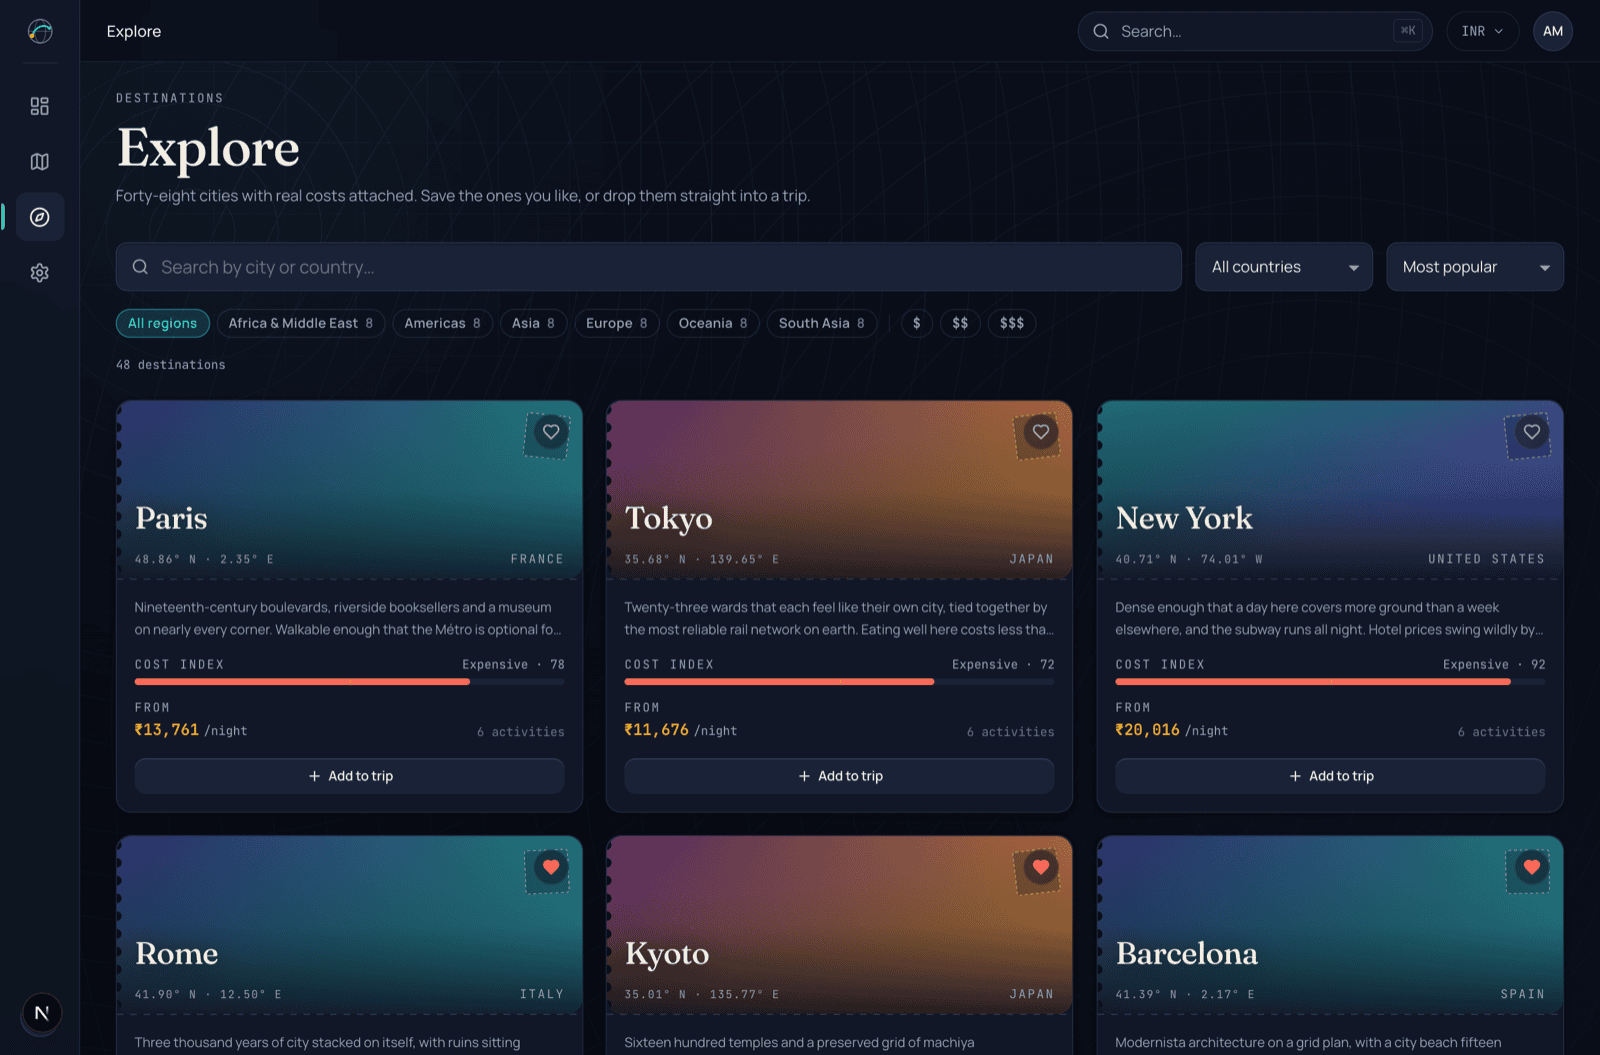
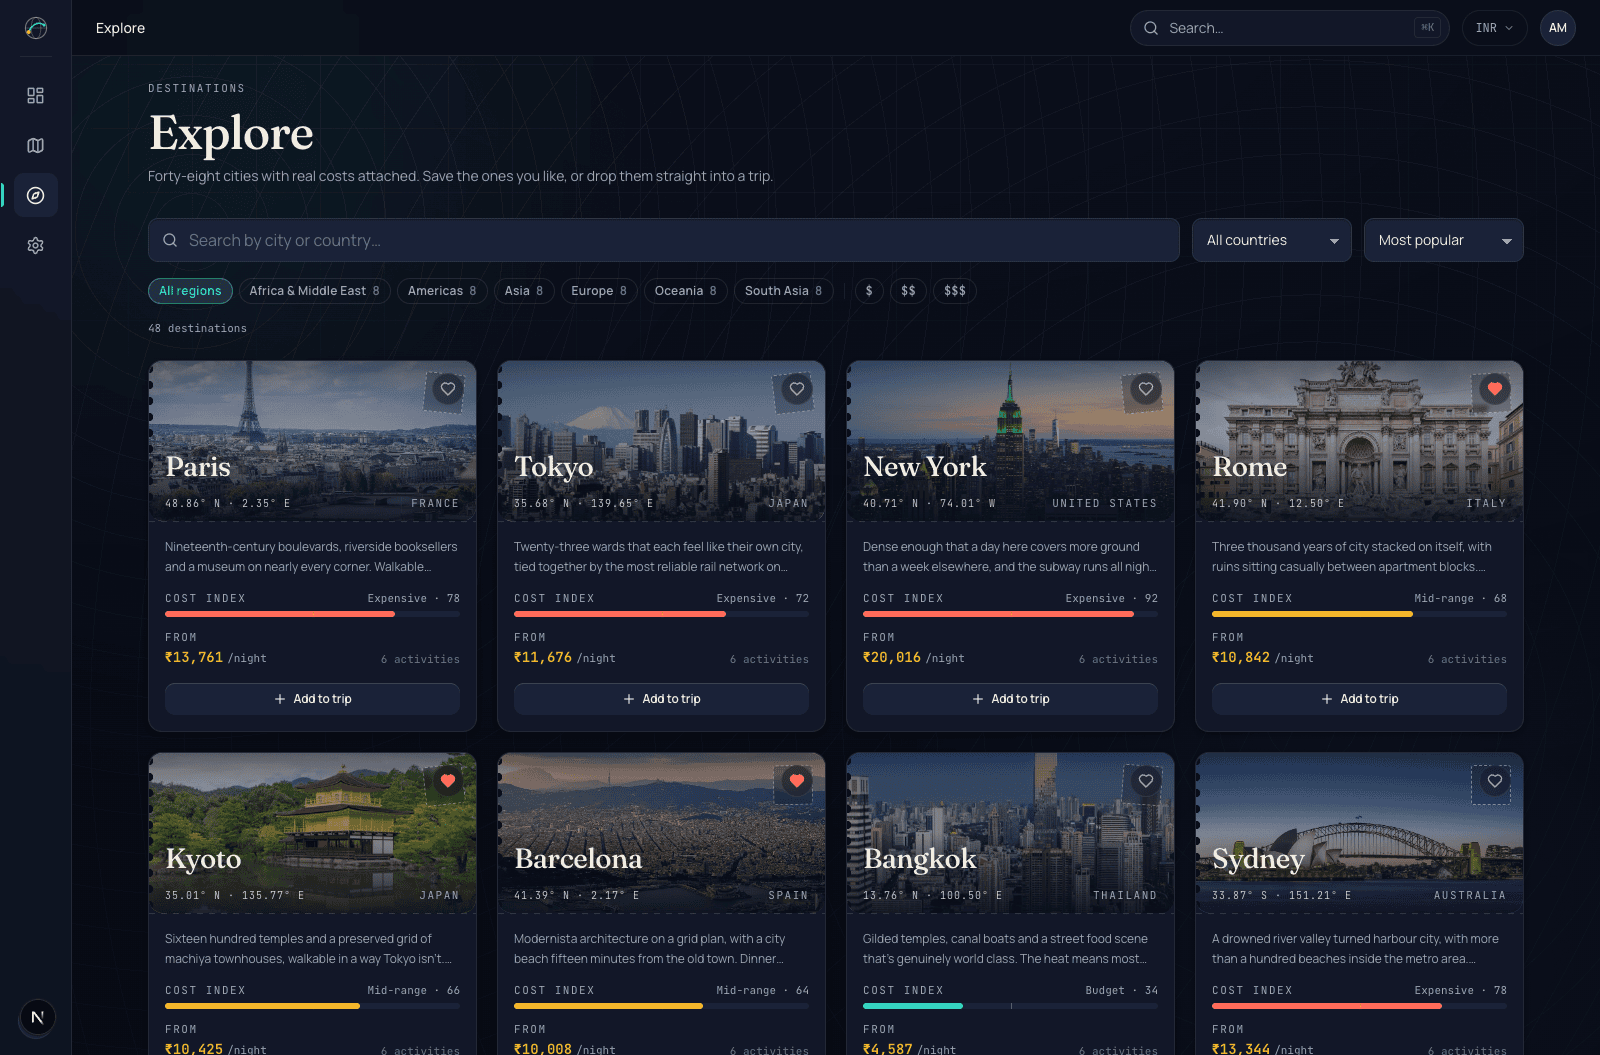
feat(cities): give all 48 cities a real photograph
The Postcard component has always rendered a photo when a city had one — no
city ever did, so every card fell back to its region gradient. All 48 now ship
a photograph of themselves.

scripts/build-city-images.mjs builds them from Wikimedia Commons: the article's
lead image, resized onto a 1000x563 frame and encoded as WebP (~86 KB each,
4 MB for the set). Files live in public/ rather than being hot-linked, for the
same reason as the fonts and globe textures — and because 48 cards going blank
on conference wifi is not a risk worth carrying into a demo. Author and licence
for every one is in docs/IMAGE-CREDITS.md, generated by the same script, since
CC BY and CC BY-SA oblige us to keep it.

A lead image is usually the right photo and sometimes badly wrong, so nine are
pinned by hand. Varanasi's was an active open-air cremation ground, which is
not what belongs on a card inviting someone to go there; it is now boats on the
Ganges at sunrise. Dubai's was not on Commons and Singapore's was a map. The
rest were a traffic jam (Ubud), an aerial of a former prison (San Francisco),
or too small to use.

Two things the photos broke, both fixed here:

- Contrast. The postcard's ink wash only guards the bottom edge, which was
  enough for gradients chosen to sit under white type and not for a photograph
  of a city at midday. Adds a top-down scrim so the stamp and any status chip
  in the top corners stay readable, deepens the bottom wash, and lifts the
[…]

diff --git a/src/components/ui/postcard.tsx b/src/components/ui/postcard.tsx
@@ -149,11 +149,29 @@ export function Postcard({
           }}
         />
 
-        {/* Ink wash so type stays readable over any gradient or photo. */}
+        {/* Ink wash so type stays readable over any gradient or photo. A photo
+            needs more of it than a region gradient: the gradients were picked
+            to stay legible under white type, a photograph of a city at midday
+            was not. */}
         <div
           aria-hidden
-          className="absolute inset-0 bg-gradient-to-t from-ink/85 via-ink/25 to-transparent"
+          className={cn(
+            "absolute inset-0 bg-gradient-to-t to-transparent",
+            city.imageUrl ? "from-ink/92 via-ink/40" : "from-ink/85 via-ink/25",
+          )}
         />
+
+        {/* Second scrim, top-down. The wash above only protects the bottom, but
+            the stamp lives top-right and callers drop status chips top-left —
+            and skies are the brightest part of most of these photographs.
+            Skipped for the gradients, which are dark up there already. */}
+        {city.imageUrl && (
+          <div
+            aria-hidden
+            className="absolute inset-x-0 top-0 h-1/2 bg-gradient-to-b from-ink/65 to-transparent"
+          />
+        )}
+
         <div aria-hidden className="grain" />
 
         {!minimal && (
@@ -174,6 +192,8 @@ export function Postcard({
             <div
               className={cn(
                 "absolute bottom-2.5 left-4 font-mono tabular-nums tracking-[0.1em] text-cloud/60",
+                // Small mono type is the first thing a busy photograph eats.
+                city.imageUrl && "text-cloud/80 drop-shadow-[0_1px_5px_rgba(0,0,0,0.95)]",
                 s.meta,
               )}
               aria-hidden
@@ -195,7 +215,14 @@ export function Postcard({
             {city.name}
           </NameTag>
           {!minimal && (
-            <p className="placard absolute bottom-2.5 right-4 text-cloud/55">{city.country}</p>
+            <p
+              className={cn(
+                "placard absolute bottom-2.5 right-4 text-cloud/55",
+                city.imageUrl && "text-cloud/80 drop-shadow-[0_1px_5px_rgba(0,0,0,0.95)]",
+              )}
+            >
+              {city.country}
+            </p>
           )}
         </div>
 

diff --git a/prisma/seed.ts b/prisma/seed.ts
@@ -4,6 +4,8 @@
  * Everything the app shows comes from here — there is no static JSON data
  * source anywhere in the running application.
  */
+import { existsSync } from "node:fs";
+import { join } from "node:path";
 import { PrismaClient, type Prisma } from "@prisma/client";
 import bcrypt from "bcryptjs";
 import { cities } from "./seed-data/cities";
@@ -29,6 +31,19 @@ function addDays(iso: string, n: number): string {
   return new Date(utcDate(iso).getTime() + n * MS_PER_DAY).toISOString().slice(0, 10);
 }
 
+/**
+ * The photo for a city, or null when we don't ship one — in which case the
+ * Postcard component draws its region gradient instead.
+ *
+ * The path is derived from the slug rather than stored per city, but it is
+ * *checked* rather than assumed: adding a 49th city without adding its photo
+ * should fall back to the postcard, not point at a 404.
+ */
+function cityImage(slug: string): string | null {
+  const path = `/cities/${slug}.webp`;
+  return existsSync(join(process.cwd(), "public", path)) ? path : null;
+}
+
 async function main() {
   console.log("→ seeding GlobeTrotter");
 
@@ -36,7 +51,10 @@ async function main() {
   for (const city of cities) {
     await db.city.upsert({
       where: { slug: city.slug },
-      update: {},
+      // Photos are the one field a re-seed backfills. Everything else is left
+      // alone so a re-run can't overwrite a database someone has been using,
+      // but a city that gained a picture since the last seed should get it.
+      update: { imageUrl: cityImage(city.slug) },
       create: {
         slug: city.slug,
         name: city.name,
@@ -50,12 +68,14 @@ async function main() {
         currency: city.currency,
         timezone: city.timezone,
         description: city.description,
+        imageUrl: cityImage(city.slug),
         avgStayCost: city.avgStayCost,
         avgMealCost: city.avgMealCost,
       },
     });
   }
-  console.log(`  cities      ${cities.length}`);
+  const withPhoto = cities.filter((c) => cityImage(c.slug)).length;
+  console.log(`  cities      ${cities.length} (${withPhoto} with photos)`);
 
   const cityBySlug = new Map(
     (await db.city.findMany()).map((c) => [c.slug, c] as const),

diff --git a/next.config.ts b/next.config.ts
@@ -18,6 +18,28 @@ import { PHASE_DEVELOPMENT_SERVER } from "next/constants";
 const config = (phase: string): NextConfig => ({
   distDir: phase === PHASE_DEVELOPMENT_SERVER ? ".next-dev" : ".next",
   allowedDevOrigins: ["192.168.137.1", "127.0.0.1", "localhost"],
+
+  images: {
+    /**
+     * The optimiser is off, and the city photos are pre-sized instead
+     * (1000x563 WebP, ~86 KB each, built by scripts/build-city-images).
+     *
+     * Not a preference — the optimiser is not safe on this exFAT volume. It
+     * caches derivatives under `<distDir>/dev/cache/images/<hash>/`, macOS
+     * drops an AppleDouble `._<name>` sidecar beside each one, and Next reads
+     * the directory and picks the sidecar: every city image then returns
+     * HTTP 200 with 4096 bytes of AppleDouble and `application/octet-stream`,
+     * which no browser will decode. Same root cause as the Turbopack cache
+     * problem in scripts/clean-appledouble.mjs, but this one recurs *during* a
+     * session, so cleaning before the run doesn't help.
+     *
+     * The failure is silent and total — all 48 cards break at once — so it is
+     * not something to leave armed during a demo. Serving the files straight
+     * from public/ costs the difference between an 86 KB source and a ~30 KB
+     * derivative, on images that lazy-load anyway.
+     */
+    unoptimized: true,
+  },
 });
 
 export default config;

diff --git a/scripts/check-images.ts b/scripts/check-images.ts
@@ -4,9 +4,13 @@
  *
  *   pnpm check:images
  *
- * Cities and activities default to `imageUrl: null` — the Postcard component
- * renders instead — so a clean run on seed data reports "nothing to check",
- * which is the correct answer rather than a failure.
+ * All 48 cities ship a photo under `public/cities/`, so this checks those are
+ * actually being served. Activities still default to `imageUrl: null` and fall
+ * back to the Postcard component, so they contribute nothing to check.
+ *
+ * The paths are app-relative, which means the dev or production server has to
+ * be up for this to mean anything — it resolves them against
+ * NEXT_PUBLIC_APP_URL.
  */
 import { PrismaClient } from "@prisma/client";
 

diff --git a/docs/IMAGE-CREDITS.md b/docs/IMAGE-CREDITS.md
@@ -1,0 +1,68 @@
+# City photo credits
+
+Every city photo in `public/cities/` comes from **Wikimedia Commons** under a
+free licence. They are stored in the repository rather than hot-linked, so the
+app keeps working with no network — and so a flaky connection can't blank 48
+cards mid-demo.
+
+Each file was fetched at 1600px, covered onto a 1000×563 frame and encoded as
+WebP at quality 78. The originals are unmodified other than that resize
+and centre-crop.
+
+Regenerate with `node scripts/build-city-images.mjs --force`.
+
+**Licences in use:** 12 × CC BY-SA 4.0 · 12 × CC BY 2.0 · 8 × CC BY-SA 3.0 · 5 × CC BY-SA 2.0 · 4 × CC0 · 3 × CC BY 4.0 · 2 × CC BY 2.5 · 2 × CC BY 3.0.
+
+Attribution is required by CC BY and CC BY-SA. If you add a city, add its photo
+and its row here.
+
+| City | Source file | Author | Licence |
+|---|---|---|---|
+| Amsterdam | [Imagen_de_los_canales_concéntricos_en_Ámsterdam.png](https://commons.wikimedia.org/wiki/File:Imagen_de_los_canales_conc%C3%A9ntricos_en_%C3%81msterdam.png) | Andrés Barrios | [CC BY-SA 4.0](https://creativecommons.org/licenses/by-sa/4.0) |
+| Auckland | [Auckland_skyline_-_May_2024_(2).jpg](https://commons.wikimedia.org/wiki/File:Auckland_skyline_-_May_2024_(2).jpg) | elpinto007 | [CC BY-SA 2.0](https://creativecommons.org/licenses/by-sa/2.0) |
+| Bangkok | [4Y1A1159_Bangkok_(33536795515).jpg](https://commons.wikimedia.org/wiki/File:4Y1A1159_Bangkok_(33536795515).jpg) | Ninara from Helsinki, Finland | [CC BY 2.0](https://creativecommons.org/licenses/by/2.0) |
+| Barcelona | [Evening_light_over_Barcelona.jpg](https://commons.wikimedia.org/wiki/File:Evening_light_over_Barcelona.jpg) | M McBey | [CC BY 2.0](https://creativecommons.org/licenses/by/2.0) |
+| Buenos Aires | [Puerto_Madero,_Buenos_Aires_(40689219792)_(cropped).jpg](https://commons.wikimedia.org/wiki/File:Puerto_Madero,_Buenos_Aires_(40689219792)_(cropped).jpg) | Deensel | [CC BY 2.0](https://creativecommons.org/licenses/by/2.0) |
+| Cairo | [Cairo_Opera_House,_Al_Hurriyah_Park_and_the_Nile_river_(14797782354).jpg](https://commons.wikimedia.org/wiki/File:Cairo_Opera_House,_Al_Hurriyah_Park_and_the_Nile_river_(14797782354).jpg) | Jorge Láscar from Melbourne, Australia | [CC BY 2.0](https://creativecommons.org/licenses/by/2.0) |
+| Cancún | [Cancun_Strand_Luftbild_(22143397586).jpg](https://commons.wikimedia.org/wiki/File:Cancun_Strand_Luftbild_(22143397586).jpg) | dronepicr | [CC BY 2.0](https://creativecommons.org/licenses/by/2.0) |
+| Cape Town | [Camps_bay_(53460319478)_(cropped).jpg](https://commons.wikimedia.org/wiki/File:Camps_bay_(53460319478)_(cropped).jpg) | Der Berzerker from Washington, DC, USA | [CC BY-SA 2.0](https://creativecommons.org/licenses/by-sa/2.0) |
+| Cusco | [Vista_Calle_Suecia.jpg](https://commons.wikimedia.org/wiki/File:Vista_Calle_Suecia.jpg) | tomscoffin | [CC BY 2.0](https://creativecommons.org/licenses/by/2.0) |
+| Doha | [The_Pearl_Marina_in_Nov_2013.jpg](https://commons.wikimedia.org/wiki/File:The_Pearl_Marina_in_Nov_2013.jpg) | Alex Sergeev (www.asergeev.com) | [CC BY-SA 3.0](http://creativecommons.org/licenses/by-sa/3.0/) |
+| Dubai | [Dubai Marina (12627723853).jpg](https://commons.wikimedia.org/wiki/File:Dubai_Marina_(12627723853).jpg) | Francisco Anzola | [CC BY 2.0](https://creativecommons.org/licenses/by/2.0) |
+| Goa | [BeachFun.jpg](https://commons.wikimedia.org/wiki/File:BeachFun.jpg) | Sam 8393 | [CC BY-SA 4.0](https://creativecommons.org/licenses/by-sa/4.0) |
+| Gold Coast | [Gold_Coast_skyline_(Unsplash).jpg](https://commons.wikimedia.org/wiki/File:Gold_Coast_skyline_(Unsplash).jpg) | Jordan Gellie jordan_gellie | [CC0](http://creativecommons.org/publicdomain/zero/1.0/deed.en) |
+| Hobart | [Franklin_Wharf_2015_b_(cropped).jpg](https://commons.wikimedia.org/wiki/File:Franklin_Wharf_2015_b_(cropped).jpg) | File:Franklin Wharf 2015.jpg: Michael fromholtz derivative work: Georgfotoart | [CC BY-SA 4.0](https://creativecommons.org/licenses/by-sa/4.0) |
+| Istanbul | [Historical_peninsula_and_modern_skyline_of_Istanbul.jpg](https://commons.wikimedia.org/wiki/File:Historical_peninsula_and_modern_skyline_of_Istanbul.jpg) | Hunanuk | [CC0](http://creativecommons.org/publicdomain/zero/1.0/deed.en) |
+| Jaipur | [East_facade_Hawa_Mahal_Jaipur_from_ground_level_(July_2022)_-_img_01.jpg](https://commons.wikimedia.org/wiki/File:East_facade_Hawa_Mahal_Jaipur_from_ground_level_(July_2022)_-_img_01.jpg) | Chainwit. | [CC BY-SA 4.0](https://creativecommons.org/licenses/by-sa/4.0) |
+| Kochi | [Kochi_Skyline.jpg](https://commons.wikimedia.org/wiki/File:Kochi_Skyline.jpg) | Fsquares (The Ibrahims) | [CC BY-SA 4.0](https://creativecommons.org/licenses/by-sa/4.0) |
+| Kyoto | [Kyoto,_Japan_(49667780482).jpg](https://commons.wikimedia.org/wiki/File:Kyoto,_Japan_(49667780482).jpg) | Nina R from Africa | [CC BY 2.0](https://creativecommons.org/licenses/by/2.0) |
+| Leh | [Leh_City_seen_from_Shanti_Stupa.JPG](https://commons.wikimedia.org/wiki/File:Leh_City_seen_from_Shanti_Stupa.JPG) | Anirvan Shukla | [CC BY-SA 3.0](https://creativecommons.org/licenses/by-sa/3.0) |
+| Lisbon | [Lisboa_-_Portugal_(52597836992).jpg](https://commons.wikimedia.org/wiki/File:Lisboa_-_Portugal_(52597836992).jpg) | Vitor Oliveira from Torres Vedras, PORTUGAL | [CC BY-SA 2.0](https://creativecommons.org/licenses/by-sa/2.0) |
+| Marrakech | [Jemaa el-Fnaa at night.jpg](https://commons.wikimedia.org/wiki/File:Jemaa_el-Fnaa_at_night.jpg) | procsilas | [CC BY 2.0](https://creativecommons.org/licenses/by/2.0) |
+| Melbourne | [Melbourne_skyline_sor.jpg](https://commons.wikimedia.org/wiki/File:Melbourne_skyline_sor.jpg) | Melbpal | [CC BY-SA 4.0](https://creativecommons.org/licenses/by-sa/4.0) |
+| Mexico City | [Sobrevuelos_CDMX_HJ2A4913_(25514321687)_(cropped).jpg](https://commons.wikimedia.org/wiki/File:Sobrevuelos_CDMX_HJ2A4913_(25514321687)_(cropped).jpg) | Gobierno CDMX | [CC0](http://creativecommons.org/publicdomain/zero/1.0/deed.en) |
+| Mumbai | [Mumbai_Bandra-Worli_Sea_Link.jpg](https://commons.wikimedia.org/wiki/File:Mumbai_Bandra-Worli_Sea_Link.jpg) | Rutiknatekar | [CC BY-SA 4.0](https://creativecommons.org/licenses/by-sa/4.0) |
+| Muscat | [Al_Alam_Palace.jpg](https://commons.wikimedia.org/wiki/File:Al_Alam_Palace.jpg) | Tristan | [CC BY 2.0](https://creativecommons.org/licenses/by/2.0) |
+| Nadi | [Sri Siva Subramaniya Swami Temple - Nadi, Fiji 2.jpg](https://commons.wikimedia.org/wiki/File:Sri_Siva_Subramaniya_Swami_Temple_-_Nadi,_Fiji_2.jpg) | Mark Heard from Canada | [CC BY 2.0](https://creativecommons.org/licenses/by/2.0) |
+| Nairobi | [Nairobi City Skyline.jpg](https://commons.wikimedia.org/wiki/File:Nairobi_City_Skyline.jpg) | Raidarmax | [CC BY-SA 3.0](https://creativecommons.org/licenses/by-sa/3.0) |
+| New York | [View_of_Empire_State_Building_from_Rockefeller_Center_New_York_City_dllu_(cropped).jpg](https://commons.wikimedia.org/wiki/File:View_of_Empire_State_Building_from_Rockefeller_Center_New_York_City_dllu_(cropped).jpg) | Dllu | [CC BY-SA 4.0](https://creativecommons.org/licenses/by-sa/4.0) |
+| Osaka | [Osaka_Castle_03bs3200.jpg](https://commons.wikimedia.org/wiki/File:Osaka_Castle_03bs3200.jpg) | 663highland | [CC BY 2.5](https://creativecommons.org/licenses/by/2.5) |
+| Paris | [La_Tour_Eiffel_vue_de_la_Tour_Saint-Jacques,_Paris_août_2014_(2).jpg](https://commons.wikimedia.org/wiki/File:La_Tour_Eiffel_vue_de_la_Tour_Saint-Jacques,_Paris_ao%C3%BBt_2014_(2).jpg) | Yann Caradec from Paris, France | [CC BY-SA 2.0](https://creativecommons.org/licenses/by-sa/2.0) |
+| Perth | [Perth_CBD_skyline_from_State_War_Memorial_Lookout,_2023,_04_b.jpg](https://commons.wikimedia.org/wiki/File:Perth_CBD_skyline_from_State_War_Memorial_Lookout,_2023,_04_b.jpg) | File:Perth CBD skyline from State War Memorial Lookout, 2023, 04.jpg: Kgbo derivative work: Georgfotoart | [CC BY-SA 4.0](https://creativecommons.org/licenses/by-sa/4.0) |
+| Petra | [Al_Deir_Petra.JPG](https://commons.wikimedia.org/wiki/File:Al_Deir_Petra.JPG) | Azurfrog | [CC BY-SA 3.0](https://creativecommons.org/licenses/by-sa/3.0) |
+| Prague | [Prague_(6365119737).jpg](https://commons.wikimedia.org/wiki/File:Prague_(6365119737).jpg) | Moyan Brenn from Italy | [CC BY 2.0](https://creativecommons.org/licenses/by/2.0) |
+| Queenstown | [Queenstown_1_(8168013172).jpg](https://commons.wikimedia.org/wiki/File:Queenstown_1_(8168013172).jpg) | Bernard Spragg. NZ from Christchurch, New Zealand | [CC0](http://creativecommons.org/publicdomain/zero/1.0/deed.en) |
+| Rio de Janeiro | [Cidade_Maravilhosa.jpg](https://commons.wikimedia.org/wiki/File:Cidade_Maravilhosa.jpg) | Rafael Rabello de Barros | [CC BY-SA 3.0](https://creativecommons.org/licenses/by-sa/3.0) |
+| Rishikesh | [Trayambakeshwar_Temple_VK.jpg](https://commons.wikimedia.org/wiki/File:Trayambakeshwar_Temple_VK.jpg) | VK1983 | [CC BY-SA 4.0](https://creativecommons.org/licenses/by-sa/4.0) |
+| Rome | [Trevi_Fountain,_Rome,_Italy_2_-_May_2007.jpg](https://commons.wikimedia.org/wiki/File:Trevi_Fountain,_Rome,_Italy_2_-_May_2007.jpg) | Diliff | [CC BY 3.0](https://creativecommons.org/licenses/by/3.0) |
+| San Francisco | [GoldenGateBridge BakerBeach MC.jpg](https://commons.wikimedia.org/wiki/File:GoldenGateBridge_BakerBeach_MC.jpg) | Christian Mehlführer, User:Chmehl | [CC BY 3.0](https://creativecommons.org/licenses/by/3.0) |
+| Seoul | [중화전의_낮.jpg](https://commons.wikimedia.org/wiki/File:%EC%A4%91%ED%99%94%EC%A0%84%EC%9D%98_%EB%82%AE.jpg) | Eunmi Park | [CC BY-SA 4.0](https://creativecommons.org/licenses/by-sa/4.0) |
+| Singapore | [Singapore Supertree-Grove-in-The-Gardens-01.jpg](https://commons.wikimedia.org/wiki/File:Singapore_Supertree-Grove-in-The-Gardens-01.jpg) | CEphoto, Uwe Aranas | [CC BY-SA 3.0](https://creativecommons.org/licenses/by-sa/3.0) |
+| Sydney | [Sydney_Opera_House_and_Harbour_Bridge_Dusk_(2)_2019-06-21.jpg](https://commons.wikimedia.org/wiki/File:Sydney_Opera_House_and_Harbour_Bridge_Dusk_(2)_2019-06-21.jpg) | Benh LIEU SONG (Flickr) | [CC BY-SA 4.0](https://creativecommons.org/licenses/by-sa/4.0) |
+| Tokyo | [Skyscrapers_of_Shinjuku_2009_January.jpg](https://commons.wikimedia.org/wiki/File:Skyscrapers_of_Shinjuku_2009_January.jpg) | Morio | [CC BY-SA 3.0](http://creativecommons.org/licenses/by-sa/3.0/) |
+| Ubud | [Rice terraces, Ubud, Bali.jpg](https://commons.wikimedia.org/wiki/File:Rice_terraces,_Ubud,_Bali.jpg) | Vyacheslav Argenberg | [CC BY 4.0](https://creativecommons.org/licenses/by/4.0) |
+| Udaipur | [Evening_view,_City_Palace,_Udaipur.jpg](https://commons.wikimedia.org/wiki/File:Evening_view,_City_Palace,_Udaipur.jpg) | Geri from Biel/Bienne, Schweiz | [CC BY-SA 2.0](https://creativecommons.org/licenses/by-sa/2.0) |
+| Vancouver | [Skyline_of_Vancouver,_Canada.jpg](https://commons.wikimedia.org/wiki/File:Skyline_of_Vancouver,_Canada.jpg) | Quintin Soloviev | [CC BY 4.0](https://creativecommons.org/licenses/by/4.0) |
+| Varanasi | [Ganges varanasi.jpg](https://commons.wikimedia.org/wiki/File:Ganges_varanasi.jpg) | No machine-readable author provided. Uli@wiki assumed (based on copyright claims). | [CC BY 2.5](https://creativecommons.org/licenses/by/2.5) |
+| Vienna | [Schoenbrunn_philharmoniker_2012.jpg](https://commons.wikimedia.org/wiki/File:Schoenbrunn_philharmoniker_2012.jpg) | Superbass | [CC BY-SA 3.0](https://creativecommons.org/licenses/by-sa/3.0) |
+| Zanzibar | [Harbour at the picturesque Stone Town.jpg](https://commons.wikimedia.org/wiki/File:Harbour_at_the_picturesque_Stone_Town.jpg) | Dr. Ondřej Havelka (cestovatel) | [CC BY 4.0](https://creativecommons.org/licenses/by/4.0) |

diff --git a/README.md b/README.md
@@ -27,6 +27,8 @@ open and copy into their own account.
 
 Everything on every screen is real: **48 cities**, **288 activities**, 3 demo
 trips, all out of PostgreSQL. There is no mock data path in the running app.
+Every city carries a real photograph of itself, shipped with the repo rather
+than hot-linked — see [photo credits](docs/IMAGE-CREDITS.md).
 
 ---
 
@@ -270,9 +272,19 @@ whole palette is defined once as `@theme` tokens in `src/app/globals.css`.
 ### It works offline
 
 No runtime network dependency: fonts are committed to `public/fonts`, globe
-textures to `public/globe`, QR codes are generated server-side by the `qrcode`
-package, and OG images are rendered locally by `next/og`. Unplug the machine
-and every screen still works.
+textures to `public/globe`, all 48 city photographs to `public/cities`, QR codes
+are generated server-side by the `qrcode` package, and OG images are rendered
+locally by `next/og`. Unplug the machine and every screen still works.
+
+The city photos are Wikimedia Commons originals, resized to 1000×563 and encoded
+as WebP (~86 KB each, 4 MB for the set) by `scripts/build-city-images.mjs`.
+They are stored rather than hot-linked for the same reason as everything else
+here, and because 48 cards going blank on conference wifi is not a risk worth
+taking. Author and licence for each one is in
+[`docs/IMAGE-CREDITS.md`](docs/IMAGE-CREDITS.md).
+
+Next's image optimiser is deliberately off — see the comment in `next.config.ts`
+for the exFAT reason, which is not a preference.
 
 ---
 
@@ -305,6 +317,7 @@ src/
 | [`docs/API.md`](docs/API.md) | Every endpoint with a request and a response |
 | [`docs/DECISIONS.md`](docs/DECISIONS.md) | Decisions taken during the build, and why |
 | [`docs/DEMO-SCRIPT.md`](docs/DEMO-SCRIPT.md) | The five-minute demo, in order |
+| [`docs/IMAGE-CREDITS.md`](docs/IMAGE-CREDITS.md) | Author and licence for all 48 city photos |
 | [`docs/REVIEW-CHEATSHEET.md`](docs/REVIEW-CHEATSHEET.md) | Straight answers to "why did you do it that way" |
 
 ---
